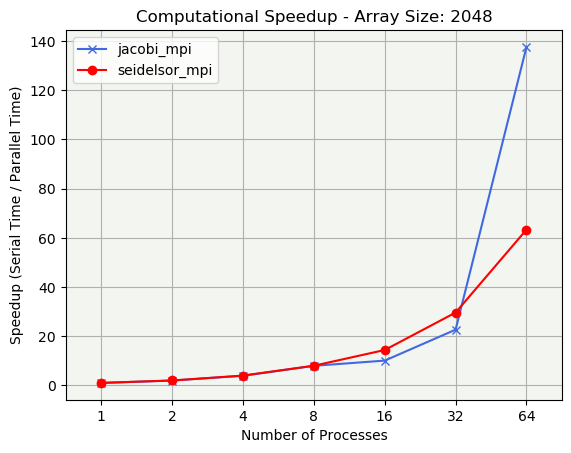
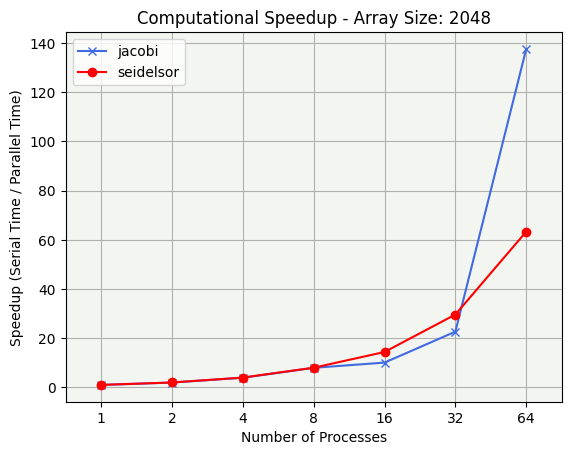
Added plots for times

diff --git a/2nd_exec/src/plot.py b/2nd_exec/src/plot.py
@@ -6,13 +6,15 @@ import numpy as np
 import matplotlib
 matplotlib.use('Agg')
 import matplotlib.pyplot as plt
-from statistics import mean 
+from statistics import mean
 
 if len(sys.argv) < 3:
     print("Usage: plot_metrics.py <input_directory_path> <input_directory_path>")
     exit(-1)
 
 jobs_confs = [1, 2, 4, 8, 16, 32, 64]
+
+plot_confs = [8, 16, 32, 64]
 
 array_sizes = [2048, 4096, 6144]
 
@@ -29,7 +31,7 @@ total_speedups = {}
 
 for arg in range(1,len(sys.argv)):
     outDir = sys.argv[arg]
-    name = outDir.split("/")[1]
+    name = outDir.split("/")[1].split("_")[0]
     names.append(name)
     outDirs.append(outDir)
 
@@ -70,7 +72,7 @@ for x in range(len(outDirs)):
                         jobs = int(line.split("Jobs")[1].split(" ")[1])
                         comp = float(line.split("ComputationTime")[1].split(" ")[1])
                         total = float(line.split("TotalTime")[1].split(" ")[1])
-                        
+
                         dir_comp_times[size_x][name][jobs].append(comp)
                         dir_total_times[size_x][name][jobs].append(total)
 
@@ -89,7 +91,7 @@ for size in array_sizes:
         for jobs in jobs_confs:
             comp_times[size][name].append(round(mean(dir_comp_times[size][name][jobs]), 6))
             total_times[size][name].append(round(mean(dir_total_times[size][name][jobs]), 6))
-        
+
     # print(comp_times)
     # print(total_times,"\n")
 
@@ -99,7 +101,7 @@ for size in array_sizes:
     for tuple in comp_times.items():
         for name_key, times in tuple[1].items():
             comp_speedups[size][name_key] = [round(times[0]/x, 6) for x in times]
-    
+
     for tuple in comp_times.items():
         for name_key, times in tuple[1].items():
             total_speedups[size][name_key] = [round(times[0]/x, 6) for x in times]
@@ -127,9 +129,9 @@ for tuple in y_Axis.items():
     # print (tuple)
     i = 0
     fig, ax = plt.subplots()
-    print()
+    # print()
     for name, val in tuple[1].items():
-        print("size",tuple[0],"name: ", name, ", val:", val)
+        # print("size",tuple[0],"name: ", name, ", val:", val)
 
         ax.grid(True)
         ax.set_facecolor('#f2f5f0')
@@ -153,9 +155,9 @@ for tuple in y_Axis.items():
     # print (tuple)
     i = 0
     fig, ax = plt.subplots()
-    print()
+    # print()
     for name, val in tuple[1].items():
-        print("size",tuple[0],"name: ", name, ", val:", val)
+        # print("size",tuple[0],"name: ", name, ", val:", val)
 
         ax.grid(True)
         ax.set_facecolor('#f2f5f0')
@@ -172,3 +174,65 @@ for tuple in y_Axis.items():
     plt.title("Total Speedup - Array Size: " + str(tuple[0]))
     # plt.show()
     plt.savefig("plot_speedup_total_" + str(tuple[0]) + ".png",bbox_inches="tight")
+
+
+
+## PLOT BAR PLOTS
+
+x_Axis = np.array(names)
+# y_Axis = comp_speedups
+# print("x_Axis: ", x_Axis)
+# print("y_Axis: ", y_Axis)
+# x_ticks = np.arange(0, len(x_Axis), 1)
+# print(x_ticks)
+
+print(total_times)
+print(comp_times)
+print()
+
+for tuple_total, tuple_comp in zip(total_times.items(), comp_times.items()):
+    print (tuple_total)
+    print (tuple_comp)
+    i = 0
+    fig, ax = plt.subplots()
+    print()
+
+    total_methods_val = []
+    comp_methods_val = []
+    names_per_job = []
+
+    for plot_conf in np.arange(3, len(jobs_confs)):
+        # print(plot_conf)
+        for name in names:
+            names_per_job.append(name+"_"+str(2**plot_conf))
+
+        for (name_total, val_total), (name_comp, val_comp) in zip(tuple_total[1].items(), tuple_comp[1].items()):
+            # print()
+            # print("size",tuple_total[0],"name: ", name_total, ", val:", val_total)
+            # print("size",tuple_comp[0],"name: ", name_comp, ", val:", val_comp)
+            total_methods_val.append(val_total[plot_conf])
+            comp_methods_val.append(val_comp[plot_conf])
+
+    ax.set_facecolor('#f2f5f0')
+    ax.grid(True, linewidth=0.2)
+
+    br1 = np.arange(len(names)*len(jobs_confs[3:]))
+    br2 = [x + 0.3 for x in br1]
+
+    line1 = plt.bar(br1, total_methods_val, label='Total', width=0.25, color = "#5975A4")
+    line2 = plt.bar(br2, comp_methods_val, label='Computation', width=0.25, color = "#CC8963")
+
+    # Add the data value on head of the bar
+    for value in line1:
+    	height = value.get_height()
+    	ax.text(value.get_x() + value.get_width()/2., 1.002*height,'%f' % height, ha='center', va='bottom', fontsize='xx-small', fontweight='300')
+    for value in line2:
+    	height = value.get_height()
+    	ax.text(value.get_x() + value.get_width()/2., 1.002*height,'%f' % height, ha='center', va='bottom', fontsize='xx-small', fontweight='300')
+
+    plt.xlabel("Methods")
+    plt.ylabel("Time (s)")
+    plt.xticks([r + 0.15 for r in range(len(names)*len(jobs_confs[3:]))], names_per_job, rotation=45)
+    plt.title("Times for each 'Method_Process' - Array Size: " + str(tuple_total[0]))
+    plt.legend()
+    plt.savefig("plot_times_" + str(tuple_total[0]) + ".png",bbox_inches="tight")
